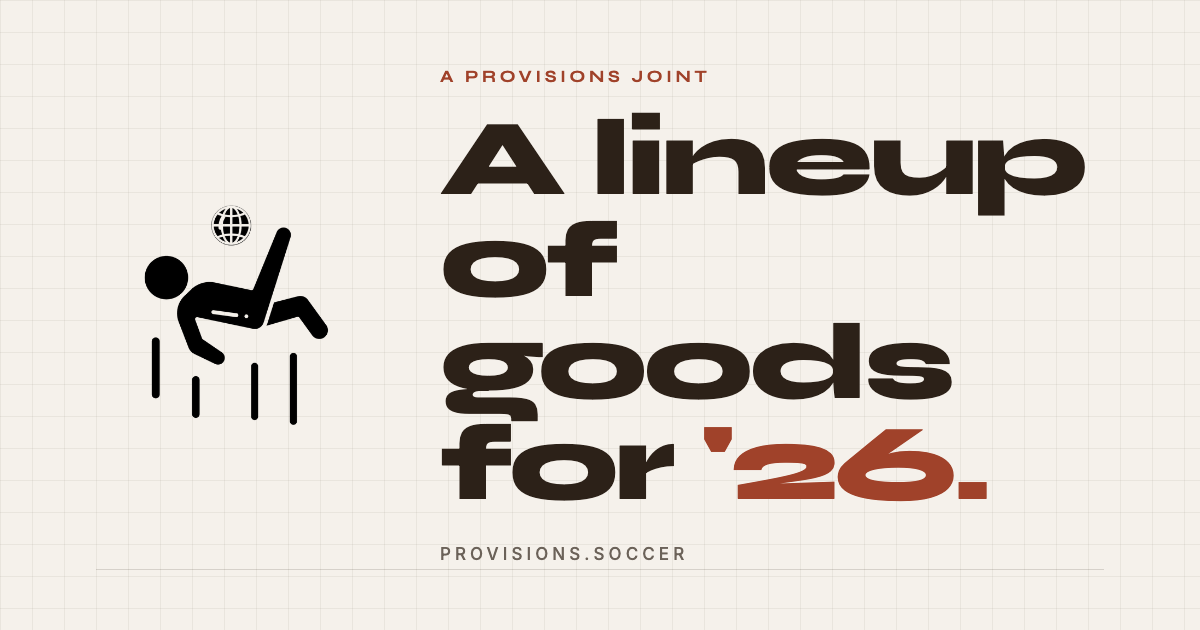
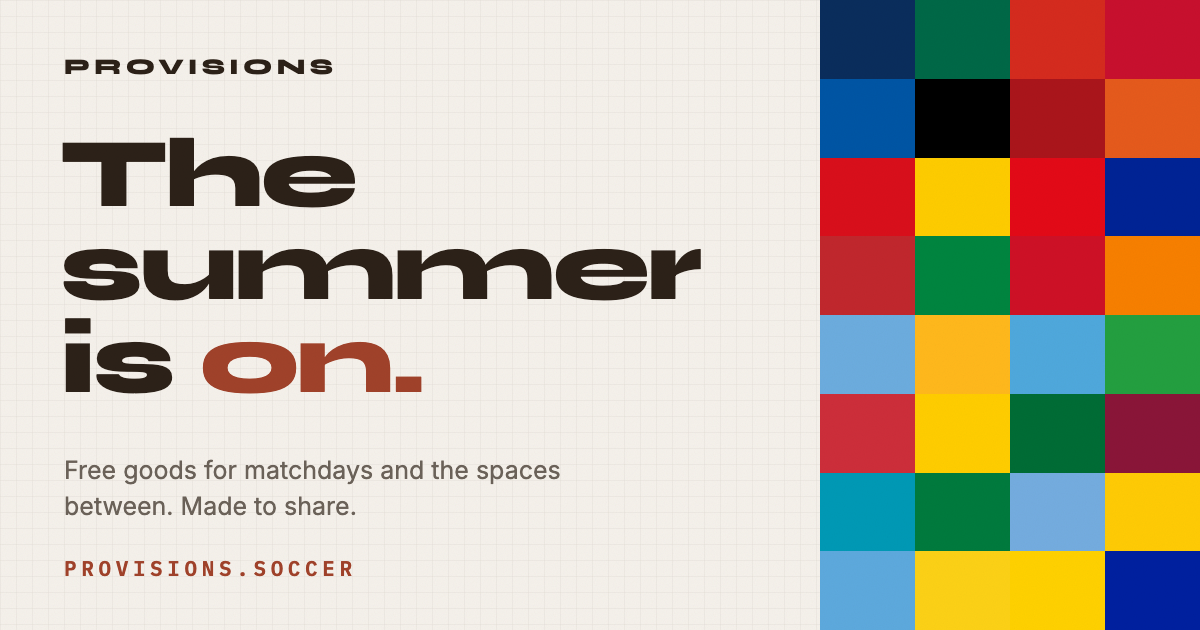
New OG images for the homepage and the daily five
og-quiz: the '94 composition — arch lockup, dotted rule, pentagon ball
with motion trail riding three waving stripes, 15/15 slab numeral,
navy footer strip. og-image: hub brand — "The summer is on." in Syne
with a 48-kit color-tile wall. Both 1200x630; og/twitter URLs bumped
?v=2 to bust scraper caches.

diff --git a/world-cup-hub/index.html b/world-cup-hub/index.html
@@ -11,7 +11,7 @@
   <meta property="og:description" content="Summer '26 products for brands, agencies + fans. Pick a country, snap a photo, share it with your squad.">
   <meta property="og:type" content="website">
   <meta property="og:url" content="https://provisions.soccer">
-  <meta property="og:image" content="https://provisions.soccer/images/og-image.png">
+  <meta property="og:image" content="https://provisions.soccer/images/og-image.png?v=2">
   <meta property="og:image:width" content="1200">
   <meta property="og:image:height" content="630">
   <meta property="og:image:alt" content="Summer '26 · A Provisions joint">
@@ -23,7 +23,7 @@
   <meta name="twitter:creator" content="@samdape">
   <meta name="twitter:title" content="A lineup of goods for '26 · Provisions">
   <meta name="twitter:description" content="Summer '26 products for brands, agencies + fans.">
-  <meta name="twitter:image" content="https://provisions.soccer/images/og-image.png">
+  <meta name="twitter:image" content="https://provisions.soccer/images/og-image.png?v=2">
   <meta name="twitter:image:alt" content="Summer '26 · A Provisions joint">
 
   <link rel="icon" href="/favicon.ico" sizes="any">

diff --git a/world-cup-hub/you-know-ball.html b/world-cup-hub/you-know-ball.html
@@ -11,7 +11,7 @@
   <meta property="og:description" content="Five new questions every day of the tournament. No Google. Do you actually know ball?">
   <meta property="og:type" content="website">
   <meta property="og:url" content="https://provisions.soccer/you-know-ball">
-  <meta property="og:image" content="https://provisions.soccer/images/og-quiz.png">
+  <meta property="og:image" content="https://provisions.soccer/images/og-quiz.png?v=2">
   <meta property="og:image:width" content="1200">
   <meta property="og:image:height" content="630">
   <meta property="og:image:alt" content="Do you know ball? · A Provisions World Cup quiz">
@@ -20,7 +20,7 @@
   <meta name="twitter:site" content="@samdape">
   <meta name="twitter:title" content="You Know Ball · World Cup Quiz">
   <meta name="twitter:description" content="Five new questions every day of the tournament. No Google. Do you actually know ball?">
-  <meta name="twitter:image" content="https://provisions.soccer/images/og-quiz.png">
+  <meta name="twitter:image" content="https://provisions.soccer/images/og-quiz.png?v=2">
   <meta name="twitter:image:alt" content="Do you know ball? · A Provisions World Cup quiz">
 
   <link rel="icon" href="/favicon.ico" sizes="any">